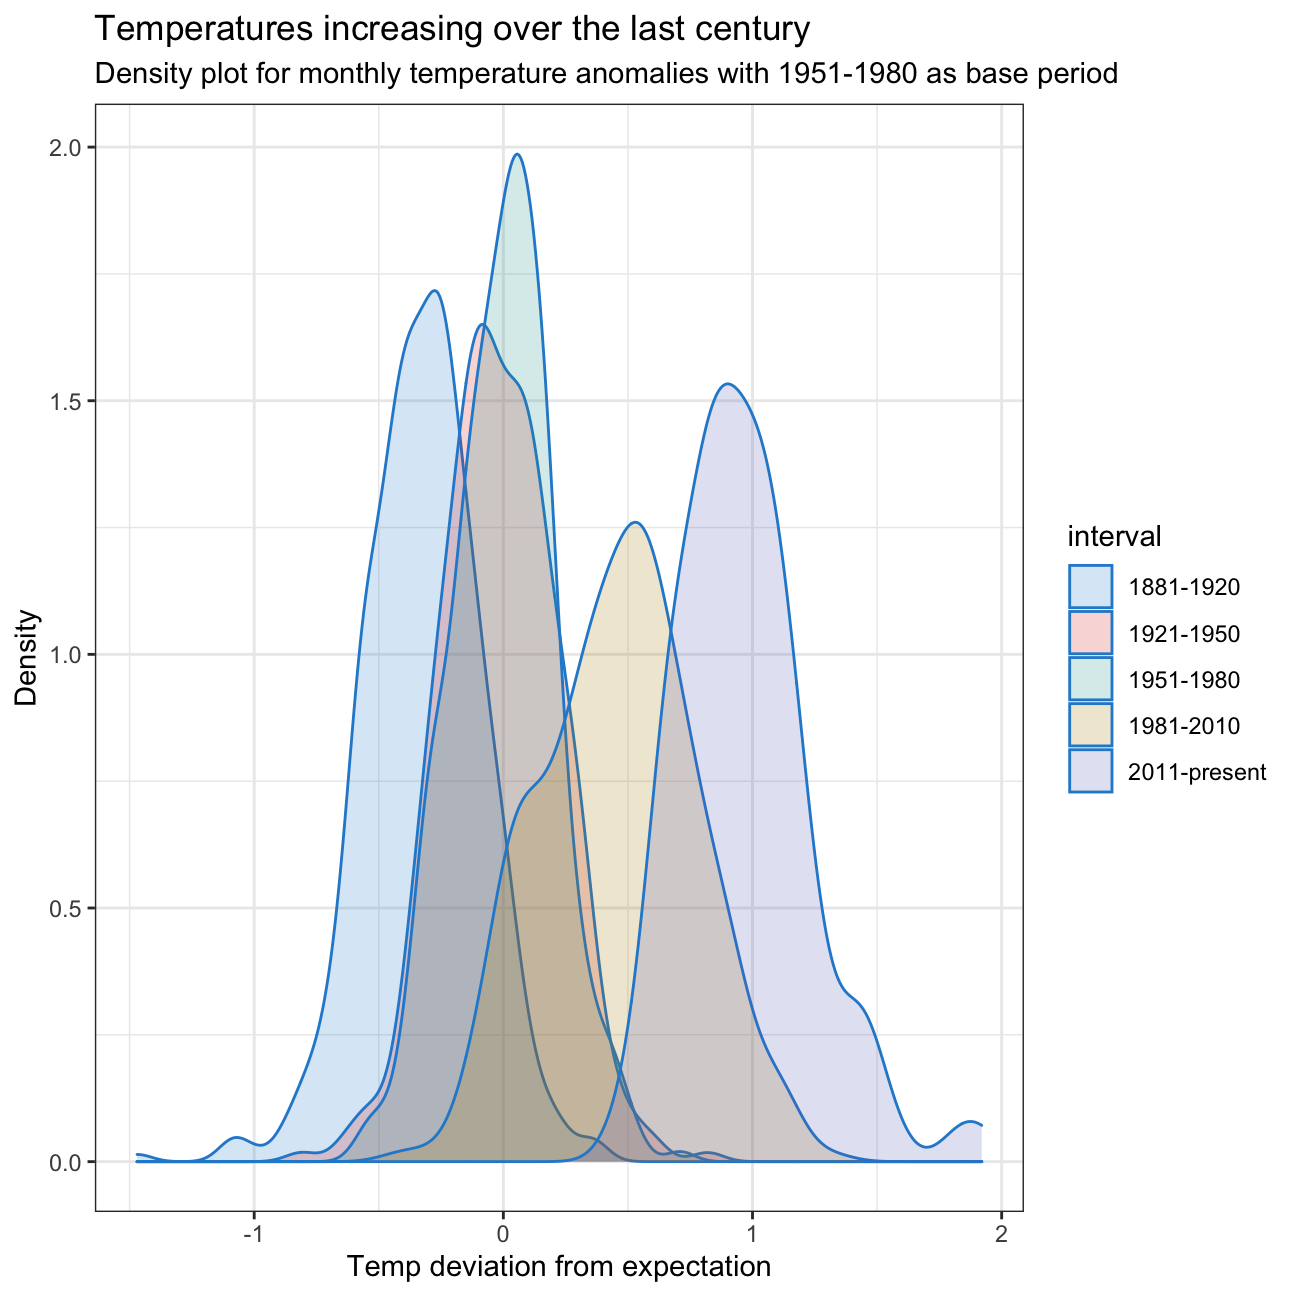
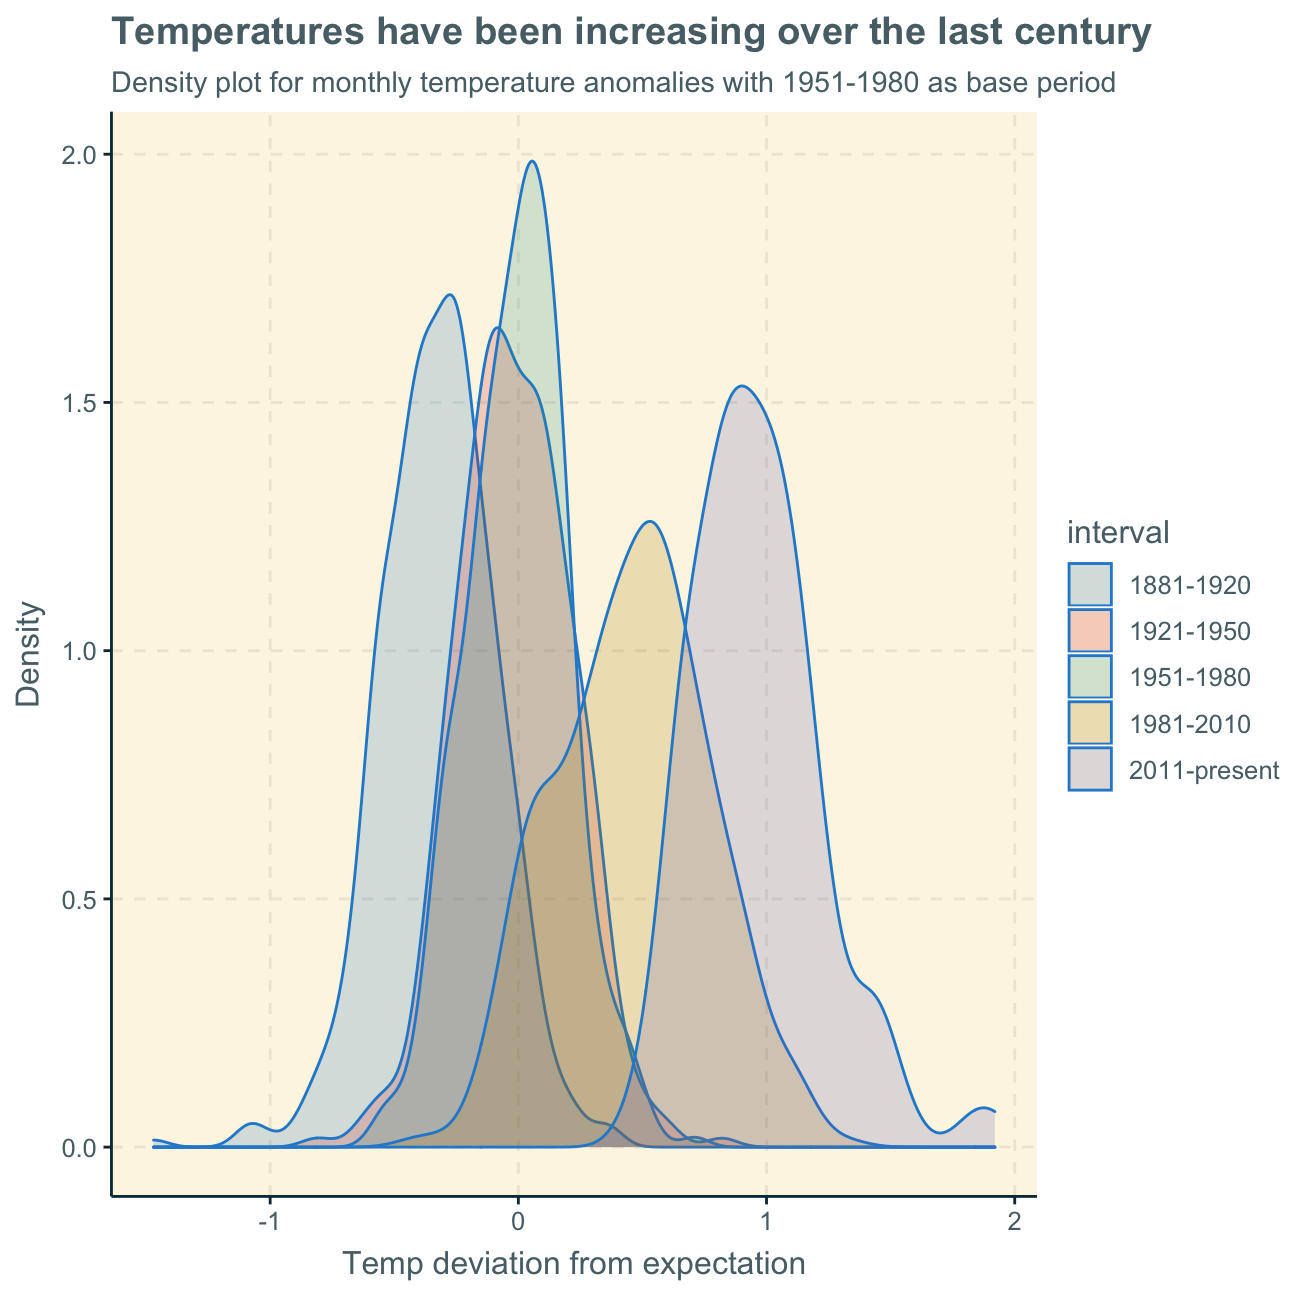
polished further projects page

diff --git a/public/projects/furtherprojects/index.html b/public/projects/furtherprojects/index.html
@@ -81,14 +81,24 @@
                             
 
 
+<p>In the following, you can have a quick look at some projects that I am currently working on. As these are not yet finished, you may find missing explanations, interpretations or planned but not yet executed analyses.</p>
+<p>I know you’re excited to see more of my work but please bear with me! These are works in progress and once I was able to continue, refine, finish and polish these, they will appear as individual projects in my portfolio for you to inspect.</p>
+<p>Consider this as a <strong>teaser</strong>… they will leave you wanting more!</p>
+<div id="content" class="section level1">
+<h1>Content</h1>
+<p>The projects that you can currently find here are:</p>
+<ol style="list-style-type: decimal">
+<li>Climate change and temperature anomalies</li>
+<li>General Social Survey (GSS)</li>
+</ol>
+</div>
 <div id="climate-change-and-temperature-anomalies" class="section level1">
-<h1>Climate change and temperature anomalies</h1>
+<h1>1. Climate change and temperature anomalies</h1>
 <p><img src="https://wallpapercave.com/wp/wp2354251.jpg" /></p>
 <p>We want to study climate change and find data for that on the <em>Combined Land-Surface Air and Sea-Surface Water Temperature Anomalies</em> in the Northern Hemisphere at <a href="https://data.giss.nasa.gov/gistemp">NASA’s Goddard Institute for Space Studies</a>. The <a href="https://data.giss.nasa.gov/gistemp/tabledata_v3/NH.Ts+dSST.txt">tabular data of temperature anomalies can be found here</a></p>
 <p>To define temperature anomalies you need to have a reference, or base, period which NASA clearly states that it is the period between 1951-1980.</p>
 <p>First, we load the file:</p>
-<pre class="r"><code>weather &lt;- 
-  read_csv(&quot;https://data.giss.nasa.gov/gistemp/tabledata_v3/NH.Ts+dSST.csv&quot;, 
+<pre class="r"><code>weather &lt;- read_csv(&quot;https://data.giss.nasa.gov/gistemp/tabledata_v3/NH.Ts+dSST.csv&quot;, 
            skip = 1, 
            na = &quot;***&quot;)</code></pre>
 <p>Here, we use two additional options: <code>skip</code> and <code>na</code>.</p>
@@ -131,16 +141,25 @@ tidyweather &lt;- tidyweather %&gt;%
 ggplot(tidyweather, aes(x=date, y = delta))+
   geom_point()+
   geom_smooth(color=&quot;red&quot;) + #add red trend line
-  theme_bw() +
-  labs (
-    title = &quot;Increasing weather anomalies in the past few decades&quot;,
+  labs (title = &quot;Increasing weather anomalies in the past few decades&quot;,
     subtitle = &quot;Temperature deviations per month over time&quot;,
     x = &quot;Year&quot;,
     y = &quot;Temp deviation from expectation&quot;
-    
   )</code></pre>
 <p><img src="/projects/furtherprojects/index_files/figure-html/scatter_plot-1.png" width="648" style="display: block; margin: auto;" /></p>
 <p>Next, we want to find out if the effect of increasing temperature deviations is more pronounced in some months. We use <code>facet_wrap()</code> to produce a separate scatter plot for each month, again with a smoothing line.</p>
+<pre class="r"><code>ggplot(tidyweather, aes(x=date, y = delta))+
+  geom_point()+
+  geom_smooth(color=&quot;red&quot;) +
+  
+  #facet by month
+  facet_wrap(~month) +
+  
+  labs (title = &quot;Temperature&#39;s rising!&quot;,
+    subtitle = &quot;Temperature deviations per month over the years&quot;,
+    x = &quot;Year&quot;,
+    y = &quot;Temp deviation from expectation&quot;
+  )</code></pre>
 <p><img src="/projects/furtherprojects/index_files/figure-html/facet_wrap-1.png" width="648" style="display: block; margin: auto;" /></p>
 <p>Looking at the produced plots, we find that the increase in temperature deviations from the normal (expected) temperature has increased over the years in <strong>every</strong> month of the year. Although the trend line has similar shapes in all months, the curve is flatter in some months and steeper in others. We find that the delta has increased more significantly in the winter months (e.g. Nov, Dec, Jan) than the summer months (e.g. Jun, Jul, Aug). This may mean that winters have become significantly hotter or colder but summers have only become slightly hotter or colder over the past decades.</p>
 <p>To investigate the historical data further, it may be useful to group it into different time periods.</p>
@@ -160,9 +179,9 @@ ggplot(tidyweather, aes(x=date, y = delta))+
 <p>Now that we have the <code>interval</code> variable, we can create a density plot to study the distribution of monthly deviations (<code>delta</code>), grouped by the different time periods we are interested in. We set <code>fill</code> to <code>interval</code> in order to group and colour the data by different time periods.</p>
 <pre class="r"><code>ggplot(comparison, aes(x=delta, fill=interval))+
   geom_density(alpha=0.2) +   #density plot with transparency set to 20%
-  theme_bw() +                #theme
+                  #theme
   labs (
-    title = &quot;Temperatures increasing over the last century&quot;,
+    title = &quot;Temperatures have been increasing over the last century&quot;,
       subtitle = &quot;Density plot for monthly temperature anomalies with 1951-1980 as base period&quot;,
     y     = &quot;Density&quot;,         #changing y-axis label to sentence case
     x = &quot;Temp deviation from expectation&quot;
@@ -185,7 +204,7 @@ ggplot(average_annual_anomaly, aes(x=Year, y= annual_average_delta))+
   geom_smooth(method = &quot;loess&quot;) +
   
   #change to theme_bw() to have white background + black frame around plot
-  theme_bw() +
+  
   labs (
     title = &quot;Significant temperature anomalies since 1970s&quot;,
       subtitle = &quot;Average yearly temperature deviation from the normal&quot;,
@@ -253,7 +272,7 @@ percentile_ci #print 95% CI</code></pre>
 </div>
 </div>
 <div id="general-social-survey-gss" class="section level1">
-<h1>General Social Survey (GSS)</h1>
+<h1>2. General Social Survey (GSS)</h1>
 <p><img src="https://www.seo-kueche.de/wp-content/uploads/2020/03/social-media-news-apps-scaled.jpg" /></p>
 <p>The <a href="http://www.gss.norc.org/">General Social Survey (GSS)</a> gathers data on American society in order to monitor and explain trends in attitudes, behaviours, and attributes. Many trends have been tracked for decades, so one can see the evolution of attitudes, etc in American Society.</p>
 <p>In this assignment, we analyze data from the <strong>2016 GSS sample data</strong>, using it to estimate values of <em>population parameters</em> of interest about US adults. The GSS sample data file has 2867 observations of 935 variables, but we are only interested in very few of these variables and, therefore, use a smaller file with 2867 observations of 7 variables.</p>
@@ -501,7 +520,7 @@ gss_new3 %&gt;%
     geom_vline(xintercept = median_email, size = 0.5, colour = &quot;green&quot;)+  #add median line in green
     geom_text(aes(x=mean_email+270, label=paste0(&quot;Mean\n&quot;, mean_email), y=0.0025)) + #add label to mean
     geom_text(aes(x=median_email-270, label=paste0(&quot;Median\n&quot;, median_email), y=0.0005)) + #add label to median
-    theme_bw() +
+    
     labs(title = &quot;Most emails answered within 8 hours&quot;,
          subtitle = &quot;Distribution of minutes spend on emails among Americans&quot;,
          x = &quot;Minutes&quot;,

diff --git a/content/projects/furtherprojects/index.html b/content/projects/furtherprojects/index.html
@@ -15,14 +15,24 @@ output:
 
 
 
+<p>In the following, you can have a quick look at some projects that I am currently working on. As these are not yet finished, you may find missing explanations, interpretations or planned but not yet executed analyses.</p>
+<p>I know you’re excited to see more of my work but please bear with me! These are works in progress and once I was able to continue, refine, finish and polish these, they will appear as individual projects in my portfolio for you to inspect.</p>
+<p>Consider this as a <strong>teaser</strong>… they will leave you wanting more!</p>
+<div id="content" class="section level1">
+<h1>Content</h1>
+<p>The projects that you can currently find here are:</p>
+<ol style="list-style-type: decimal">
+<li>Climate change and temperature anomalies</li>
+<li>General Social Survey (GSS)</li>
+</ol>
+</div>
 <div id="climate-change-and-temperature-anomalies" class="section level1">
-<h1>Climate change and temperature anomalies</h1>
+<h1>1. Climate change and temperature anomalies</h1>
 <p><img src="https://wallpapercave.com/wp/wp2354251.jpg" /></p>
 <p>We want to study climate change and find data for that on the <em>Combined Land-Surface Air and Sea-Surface Water Temperature Anomalies</em> in the Northern Hemisphere at <a href="https://data.giss.nasa.gov/gistemp">NASA’s Goddard Institute for Space Studies</a>. The <a href="https://data.giss.nasa.gov/gistemp/tabledata_v3/NH.Ts+dSST.txt">tabular data of temperature anomalies can be found here</a></p>
 <p>To define temperature anomalies you need to have a reference, or base, period which NASA clearly states that it is the period between 1951-1980.</p>
 <p>First, we load the file:</p>
-<pre class="r"><code>weather &lt;- 
-  read_csv(&quot;https://data.giss.nasa.gov/gistemp/tabledata_v3/NH.Ts+dSST.csv&quot;, 
+<pre class="r"><code>weather &lt;- read_csv(&quot;https://data.giss.nasa.gov/gistemp/tabledata_v3/NH.Ts+dSST.csv&quot;, 
            skip = 1, 
            na = &quot;***&quot;)</code></pre>
 <p>Here, we use two additional options: <code>skip</code> and <code>na</code>.</p>
@@ -65,16 +75,25 @@ tidyweather &lt;- tidyweather %&gt;%
 ggplot(tidyweather, aes(x=date, y = delta))+
   geom_point()+
   geom_smooth(color=&quot;red&quot;) + #add red trend line
-  theme_bw() +
-  labs (
-    title = &quot;Increasing weather anomalies in the past few decades&quot;,
+  labs (title = &quot;Increasing weather anomalies in the past few decades&quot;,
     subtitle = &quot;Temperature deviations per month over time&quot;,
     x = &quot;Year&quot;,
     y = &quot;Temp deviation from expectation&quot;
-    
   )</code></pre>
 <p><img src="/projects/furtherprojects/index_files/figure-html/scatter_plot-1.png" width="648" style="display: block; margin: auto;" /></p>
 <p>Next, we want to find out if the effect of increasing temperature deviations is more pronounced in some months. We use <code>facet_wrap()</code> to produce a separate scatter plot for each month, again with a smoothing line.</p>
+<pre class="r"><code>ggplot(tidyweather, aes(x=date, y = delta))+
+  geom_point()+
+  geom_smooth(color=&quot;red&quot;) +
+  
+  #facet by month
+  facet_wrap(~month) +
+  
+  labs (title = &quot;Temperature&#39;s rising!&quot;,
+    subtitle = &quot;Temperature deviations per month over the years&quot;,
+    x = &quot;Year&quot;,
+    y = &quot;Temp deviation from expectation&quot;
+  )</code></pre>
 <p><img src="/projects/furtherprojects/index_files/figure-html/facet_wrap-1.png" width="648" style="display: block; margin: auto;" /></p>
 <p>Looking at the produced plots, we find that the increase in temperature deviations from the normal (expected) temperature has increased over the years in <strong>every</strong> month of the year. Although the trend line has similar shapes in all months, the curve is flatter in some months and steeper in others. We find that the delta has increased more significantly in the winter months (e.g. Nov, Dec, Jan) than the summer months (e.g. Jun, Jul, Aug). This may mean that winters have become significantly hotter or colder but summers have only become slightly hotter or colder over the past decades.</p>
 <p>To investigate the historical data further, it may be useful to group it into different time periods.</p>
@@ -94,9 +113,9 @@ ggplot(tidyweather, aes(x=date, y = delta))+
 <p>Now that we have the <code>interval</code> variable, we can create a density plot to study the distribution of monthly deviations (<code>delta</code>), grouped by the different time periods we are interested in. We set <code>fill</code> to <code>interval</code> in order to group and colour the data by different time periods.</p>
 <pre class="r"><code>ggplot(comparison, aes(x=delta, fill=interval))+
   geom_density(alpha=0.2) +   #density plot with transparency set to 20%
-  theme_bw() +                #theme
+                  #theme
   labs (
-    title = &quot;Temperatures increasing over the last century&quot;,
+    title = &quot;Temperatures have been increasing over the last century&quot;,
       subtitle = &quot;Density plot for monthly temperature anomalies with 1951-1980 as base period&quot;,
     y     = &quot;Density&quot;,         #changing y-axis label to sentence case
     x = &quot;Temp deviation from expectation&quot;
@@ -119,7 +138,7 @@ ggplot(average_annual_anomaly, aes(x=Year, y= annual_average_delta))+
   geom_smooth(method = &quot;loess&quot;) +
   
   #change to theme_bw() to have white background + black frame around plot
-  theme_bw() +
+  
   labs (
     title = &quot;Significant temperature anomalies since 1970s&quot;,
       subtitle = &quot;Average yearly temperature deviation from the normal&quot;,
@@ -187,7 +206,7 @@ percentile_ci #print 95% CI</code></pre>
 </div>
 </div>
 <div id="general-social-survey-gss" class="section level1">
-<h1>General Social Survey (GSS)</h1>
+<h1>2. General Social Survey (GSS)</h1>
 <p><img src="https://www.seo-kueche.de/wp-content/uploads/2020/03/social-media-news-apps-scaled.jpg" /></p>
 <p>The <a href="http://www.gss.norc.org/">General Social Survey (GSS)</a> gathers data on American society in order to monitor and explain trends in attitudes, behaviours, and attributes. Many trends have been tracked for decades, so one can see the evolution of attitudes, etc in American Society.</p>
 <p>In this assignment, we analyze data from the <strong>2016 GSS sample data</strong>, using it to estimate values of <em>population parameters</em> of interest about US adults. The GSS sample data file has 2867 observations of 935 variables, but we are only interested in very few of these variables and, therefore, use a smaller file with 2867 observations of 7 variables.</p>
@@ -435,7 +454,7 @@ gss_new3 %&gt;%
     geom_vline(xintercept = median_email, size = 0.5, colour = &quot;green&quot;)+  #add median line in green
     geom_text(aes(x=mean_email+270, label=paste0(&quot;Mean\n&quot;, mean_email), y=0.0025)) + #add label to mean
     geom_text(aes(x=median_email-270, label=paste0(&quot;Median\n&quot;, median_email), y=0.0005)) + #add label to median
-    theme_bw() +
+    
     labs(title = &quot;Most emails answered within 8 hours&quot;,
          subtitle = &quot;Distribution of minutes spend on emails among Americans&quot;,
          x = &quot;Minutes&quot;,
